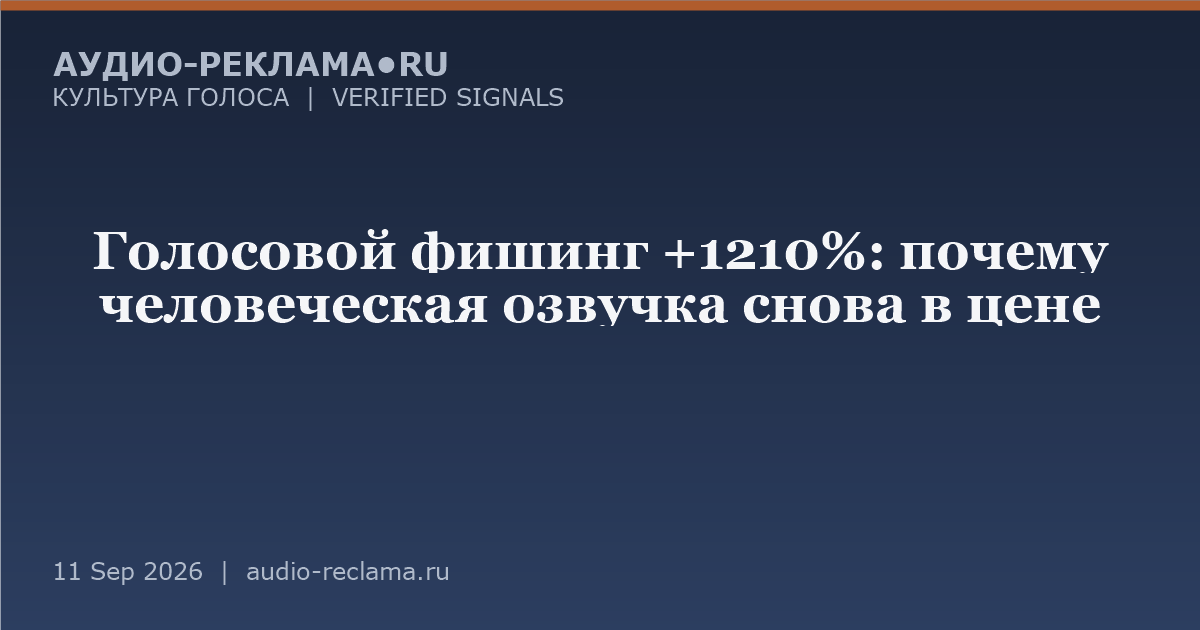
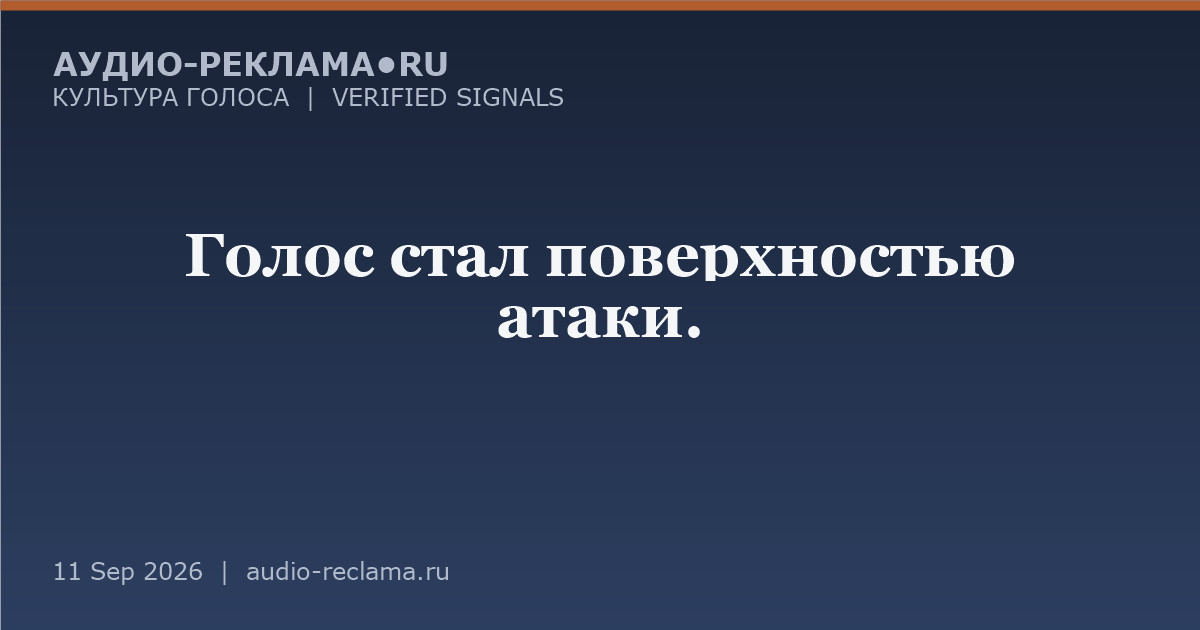
feed: rework 'voice-scams-trust' to flagship - voice as attack surface, provenance becomes trust infrastructure (intel-2026-09-11); drop sales framing

Changed region(s): [[0.0617, 0.3619, 0.925, 0.5429]]

diff --git a/feed/README.md b/feed/README.md
@@ -16,7 +16,7 @@ jsDelivr: новый коммит инвалидирует кэш автомат
 ## Слоты ленты (на 2026-09-16)
 
 Evidence-слой (проверяемость):
-- 11.09 voice-scams-trust — голосовой фишинг +1210%, доверие живому голосу (E-2026-016)
+- 11.09 voice-scams-trust — голос как поверхность атаки; происхождение — инфраструктура доверия (intel-2026-09-11)
 - 11.09 rynok-dve-storony — ИИ на объём, люди на доверие (E-2026-016/017)
 - 10.09 umg-elevenlabs — UMG×ElevenLabs: первая лицензия (E-2026-016)
 - 10.09 edison-verdict — вердикт СОСТОЯЛОСЬ, цифры слепого теста (corpus/edison-blind-test.md)
